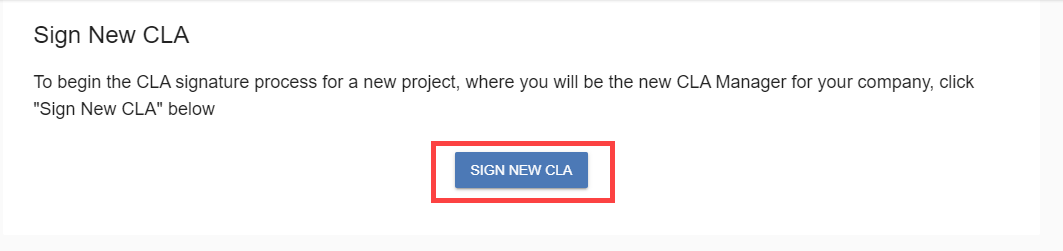
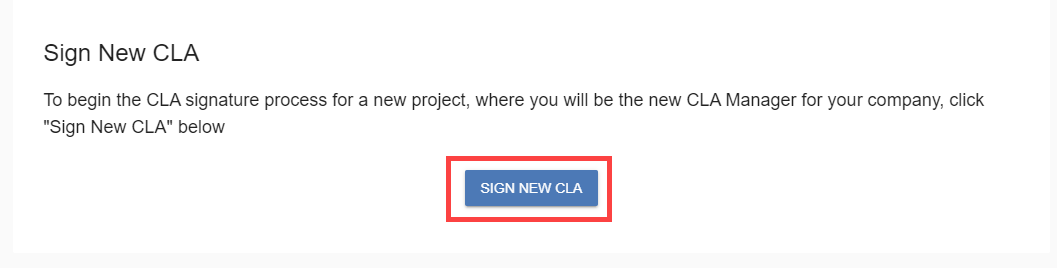
GitBook: [master] 8 pages and 8 assets modified

Changed region(s): [[0.0312, 0.2789, 0.9366, 0.502], [0.4059, 0.5578, 0.5932, 0.8367], [0.0312, 0.0837, 0.1873, 0.251]]

diff --git a/communitybridge/easycla/contributors/contribute-to-a-github-company-project.md b/communitybridge/easycla/contributors/contribute-to-a-github-company-project.md
@@ -29,72 +29,20 @@ _If you are a project manager, make sure that you are logged out of the CLA Mana
 ![CLA GitHub Select Company or Individual](../../../.gitbook/assets/cla-github-select-company-or-individual.png)
 
 7. Select **Company**.  
-**Note:** To contribute to this project, you must be authorized under a signed Contributor License Agreement. You are contributing on behalf of your work for a company.
+**Note:** To contribute to this project, you must be added to an approved list by the CLA manager under a signed Contributor License Agreement. You are contributing on behalf of your work for a company.
 
-8. Continue:
+8. Click **CONTACT** under Contact the CLA Manager to be approved under their agreed Corporate CLA.
 
-* [If a Confirmation of Association with statement appears](contribute-to-a-github-company-project.md#if-a-confirmation-of-association-with-statement-appears)
-* [If the Select Company dialog appears](contribute-to-a-github-company-project.md#if-the-select-company-dialog-appears)
+![Contact CLA Manager](../../../.gitbook/assets/contact-cla-manager.png)
 
-## If a Confirmation of Association with statement appears <a id="if-a-confirmation-of-association-with-statement-appears"></a>
+9. Select an option, and complete the form.
 
-1. Read the Confirmation of Association statement and mark the agreement checkbox. Click **CONTINUE**.
+10. Click **SEND**.  
+A message appears informing you that the e-mail is sent successfully.
 
-    ![](../../../.gitbook/assets/cla-github-confirmation-of-association%20%281%29.png) 
+![](../../../.gitbook/assets/contact-cla-manager-form.png)
 
-   A dialog appears and informs you: You are done!
-
-    ![](../../../.gitbook/assets/cla-github-you-are-done%20%281%29.png) 
-
-2. Click **RETURN TO REPO**.
-
-   You are redirected to GitHub. Wait a few seconds for the CLA status to update or refresh the page.
-
-   A tick appears next to your branch. A notification appears:
-
-   ![All Checks Have Passed](../../../.gitbook/assets/cla-github-all-checks-passed%20%281%29.png)
-
-3. Click **Merge pull request** and confirm the merge.
-
-   The CLA is added to the project.
-
-## If the Select Company dialog appears <a id="if-the-select-company-dialog-appears"></a>
-
-1. Click your **company name** and skip to **Step 3**.
-
-   If your company is not associated with a company in the list, continue with the **next step**.
-
-    ![](../../../.gitbook/assets/select-company.png) 
-
-2. Click **COMPANY NOT IN LIST?**.
-
-   The Verify Your Permission of Access dialog appears.
-
-3. Click an answer to the question: Are You a CLA Manager?
-
-   **YES**—go to **Step 5**.
-
-   **NO**—A Request Access form appears. Complete the form and click **SEND**. The CCLA manager signs a Corporate CLA and adds you to the approved list.
-
-    ![](../../../.gitbook/assets/request-access.png) 
-
-   A Confirmation of Association with statement appears.
-
-4. Read the Confirmation of Association statement and mark the agreement checkbox. Click **CONTINUE**.
-
-   ![Confirmation of Association](../../../.gitbook/assets/cla-github-confirmation-of-association.png)
-
-   A dialog appears and informs you: You are done!
-
-   ![You Are Done](../../../.gitbook/assets/cla-github-you-are-done.png)
-
-5. You are redirected to GitHub. Wait a few seconds for the CLA status to update or refresh the page.
-
-   A tick appears next to your branch. A notification appears:
-
-    ![](../../../.gitbook/assets/cla-github-all-checks-passed.png) 
-
-6. Click **Merge pull request** and confirm the merge.
-
-   The CLA is added to the project.
+{% hint style="info" %}
+You will receive an email notification if the CLA manager approves or rejects your request to be approved as a corporate contributor for the company.
+{% endhint %}
 

diff --git a/communitybridge/easycla/ccla-managers-and-ccla-signatories/approve-contributors.md b/communitybridge/easycla/ccla-managers-and-ccla-signatories/approve-contributors.md
@@ -1,5 +1,9 @@
 # Approve Contributors
 
+{% hint style="info" %}
+You will receive an email after a contributor sends request to be added to the approved list.
+{% endhint %}
+
 You can approve contributors by adding their name to the Aprroved List. **Approved Lists** are lists of domain names, email addresses of individuals, GitHub usernames, or GitHub organization names who are authorized to contribute under a signed Corporate CLA. As a CCLA manager, you allow contributions to projects on behalf of your company by using any approved list:
 
 * Domain Approved List allows entities to contribute under any email address under that domain name.
@@ -19,17 +23,23 @@ _Multiple CCLA managers cannot authorize/approve the same domain and sign a CCLA
 
 3. Click a **company** of interest.
 
-4. The CLA Corporate Console appears and shows Signed CLAs.
+![cla manager associated companies](../../../.gitbook/assets/cla-manager-associated-companies.png)
 
-![Signed CLAs](../../../.gitbook/assets/cla-signed-clas.png)
+4. The CLA Corporate Console appears and shows projects with signed CLAs.
 
-5. Click a **CLA**.
+5. Click **MANAGE APPROVED LIST** for a ****CLA ****under which you want to add a contributor.  
+You can identify a recent request for a CLA by seeing the value as 1 under Pending Contributor Requests column. Following is an example:
 
-The approved lists appear:
+![projects with signed clas](../../../.gitbook/assets/projects-with-signed-clas.png)
 
-![Approved List](../../../.gitbook/assets/approved-list.png)
+6. Under **Pending Contributor Requests**, click **ACCEPT**, and then click **APPROVE REQUEST** on the confirmation window to add the contributor to the approved list or click **DECLINE** to decline the contributor's request to be added.  
+The contributor receives an e-mail notification about the status.
 
-6. Decide which approved list you want to edit:
+![accept or decline a contributor](../../../.gitbook/assets/accept-or-decline-a-contributor.png)
+
+**Result:** If you click **ACCEPT**, the contributor will be added to the list, and is removed from the Pending Contributor Requests section.
+
+7. \(Optional\) You can edit a contributor's approved list details by:
 
 * [Domain Approved List , Email Approved List, or GitHub Approved List](approve-contributors.md#domain-whitelist-email-whitelist-or-github-whitelist)
 * [GitHub Organization Approved List](approve-contributors.md#github-organization-whitelist)

diff --git a/communitybridge/easycla/ccla-managers-and-ccla-signatories/README.md b/communitybridge/easycla/ccla-managers-and-ccla-signatories/README.md
@@ -4,9 +4,15 @@
 
 As the CCLA manager or the CCLA signatory, you do the following CLA tasks after you [sign in to the CLA Corporate Console](sign-in-to-the-cla-corporate-console.md):
 
-1. CCLA manager: [Add a Company to a Project](add-a-company-to-a-project.md).
-2. CCLA signatory: [Sign a Corporate CLA on behalf of the company](sign-a-corporate-cla-on-behalf-of-the-company.md) and [Review and Sign a Corporate CLA by Request](review-and-sign-a-corporate-cla-by-request.md)—this signatory has legal authority to sign documents on behalf of the company.
-3. CCLA manager: [Authorize Contributors](approve-contributors.md)—each approved list applies to the project for which the company has signed a Corporate CLA.
+#### **CCLA manager:** 
+
+* [Add a Company to a Project](add-a-company-to-a-project.md).
+* [Approve Contributors](approve-contributors.md)—each approved list applies to the project for which the company has signed a Corporate CLA.
+
+#### **CCLA signatory:**
+
+* [Sign a Corporate CLA on behalf of the company](sign-a-corporate-cla-on-behalf-of-the-company.md)
+* [Review and Sign a Corporate CLA by Request](review-and-sign-a-corporate-cla-by-request.md)—this signatory has legal authority to sign documents on behalf of the company.
 
 At any time, you can change the settings to manage your project CLA monitoring, and do other management tasks:
 

diff --git a/communitybridge/mentorship/mentee-guide/start-the-journey/evaluations.md b/communitybridge/mentorship/mentee-guide/start-the-journey/evaluations.md
@@ -1,9 +1,9 @@
 # Evaluations
 
-Mentee evaluations are conducted three or four times throughout the duration of the mentorship project in order to provide mentees with feedback on their progress. Depending on the project, your mentor may chose to have a 1:1 check-ins, virtual meetings or written evaluations. 
+Mentee evaluations are conducted three or four times throughout the duration of the mentorship project in order to provide mentees with feedback on their progress. Depending on the project, your mentor may choose to have 1:1 check-ins, virtual meetings or written evaluations. 
 
-Only after receiving a satisfactory evaluation, mentees can submit an Expensify report to receive a stipends.  
+Only after receiving a satisfactory evaluation, mentees can submit an Expensify report to receive stipends.  
 
-**Note:** Mentees are also asked to share their experience, provide feedback and suggestion at the end of the program so that Linux Foundation can make improvements for future programs. Keep in mind that your mentoring during the program is reflected in their blogs.  
+**Note:** Mentees are also asked to share their experience, provide feedback and suggestions at the end of the mentorship so that Linux Foundation can make improvements to program.   
 
 

diff --git a/communitybridge/easycla/ccla-managers-and-ccla-signatories/sign-a-corporate-cla-on-behalf-of-the-company.md b/communitybridge/easycla/ccla-managers-and-ccla-signatories/sign-a-corporate-cla-on-behalf-of-the-company.md
@@ -10,13 +10,11 @@ The CLA Corporate Console appears and shows Companies.
 
 2. Click the company for which you want to sign a Corporate CLA.
 
-3. Click **NEW CLA**.
+3. Click **SIGN NEW CLA**.
 
-![New CLA](../../../.gitbook/assets/cla-new-cla.png)
+![](../../../.gitbook/assets/sign-new-cla.png)
 
-4. The Select a Project to Sign a CCLA dialog appears and lists CLA groups.
-
-![Select a Project to Sign a CCLA](../../../.gitbook/assets/cla-select-a-project-to-sign-a-ccla.png)
+4. The **Select a Project to Sign a CCLA** dialog appears and lists CLA groups.
 
 5. Select the CLA group of interest.  
 A CLA Signing Requirement dialog appears:

diff --git a/communitybridge/easycla/contributors/sign-a-cla-as-an-individual-contributor-to-github.md b/communitybridge/easycla/contributors/sign-a-cla-as-an-individual-contributor-to-github.md
@@ -26,7 +26,9 @@ The CLA Contributor Console appears and shows the CLA group for your project. Th
 
 ![CLA GitHub Select Company or Individual](../../../.gitbook/assets/cla-github-select-company-or-individual.png)
 
-5. Click **Individual** and then click **OPEN ICLA AGREEMENT**.
+5. Click **Individual** and then click **OPEN CLA**.
+
+![](../../../.gitbook/assets/individual-cla%20%281%29.png)
 
 DocuSign presents the agreement that you must sign. The ICLA is not tied to any employer you may have, so enter your @personal address in the E-Mail field.
 

diff --git a/communitybridge/easycla/contributors/contribute-to-a-gerrit-project.md b/communitybridge/easycla/contributors/contribute-to-a-gerrit-project.md
@@ -21,7 +21,7 @@ _If you are a project manager, make sure that you are logged out of the CLA Mana
 
 4. Navigate to the Gerrit instance of your project. For example, if you are contributing to OPNFV project, navigate to [https://gerrit.opnfv.org](https://gerrit.opnfv.org/)
 
-5. Log in using your LFID.
+5. Sign in using your [Single Sign-On \(SSO\)](../../../sso/sign-in/) account.
 
 6. Navigate to **Settings**— the gear icon on the upper right corner, and click **Agreements** from the menu on the left:
 

diff --git a/communitybridge/easycla/ccla-managers-and-ccla-signatories/sign-in-to-the-cla-corporate-console.md b/communitybridge/easycla/ccla-managers-and-ccla-signatories/sign-in-to-the-cla-corporate-console.md
@@ -15,5 +15,5 @@ As a CCLA manager, sign in to the CLA Corporate Console to add your company to a
 
    The CLA Corporate Console appears and shows Companies.
 
-![CLA Corporate Console](../../../.gitbook/assets/cla-corporate-console.png)
+![cla corporate console](../../../.gitbook/assets/cla-corporate-console%20%282%29.png)
 
